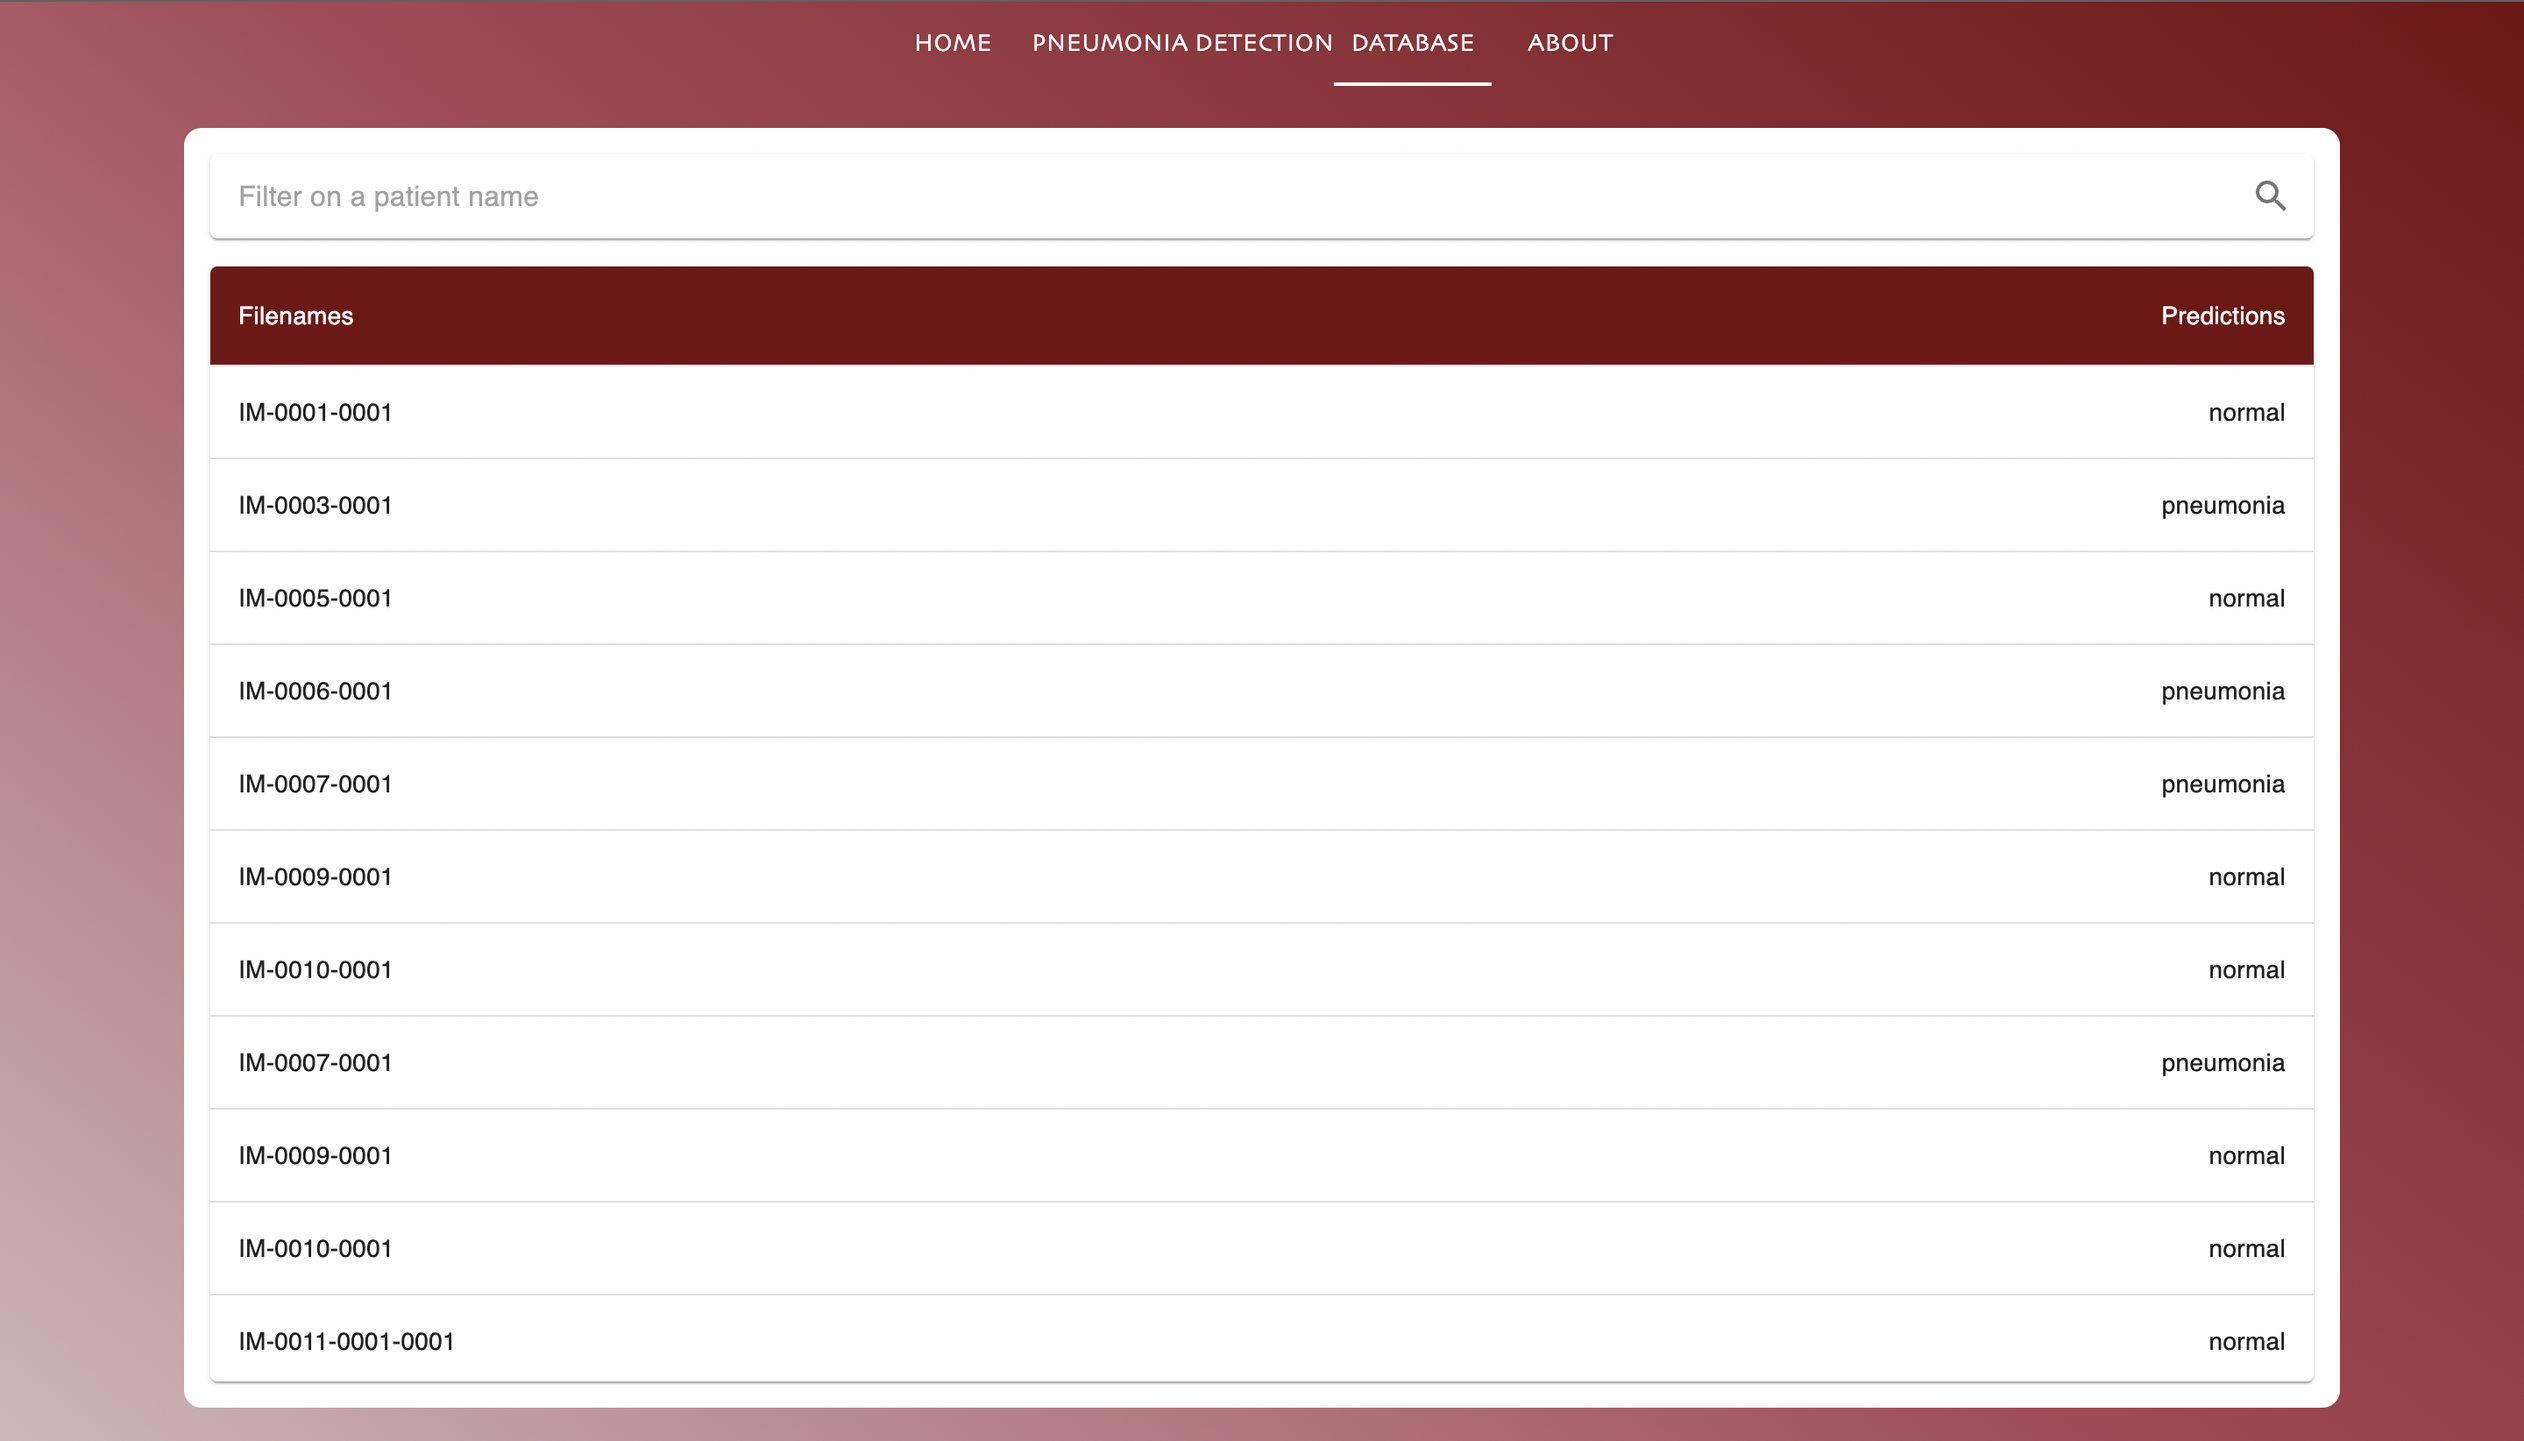
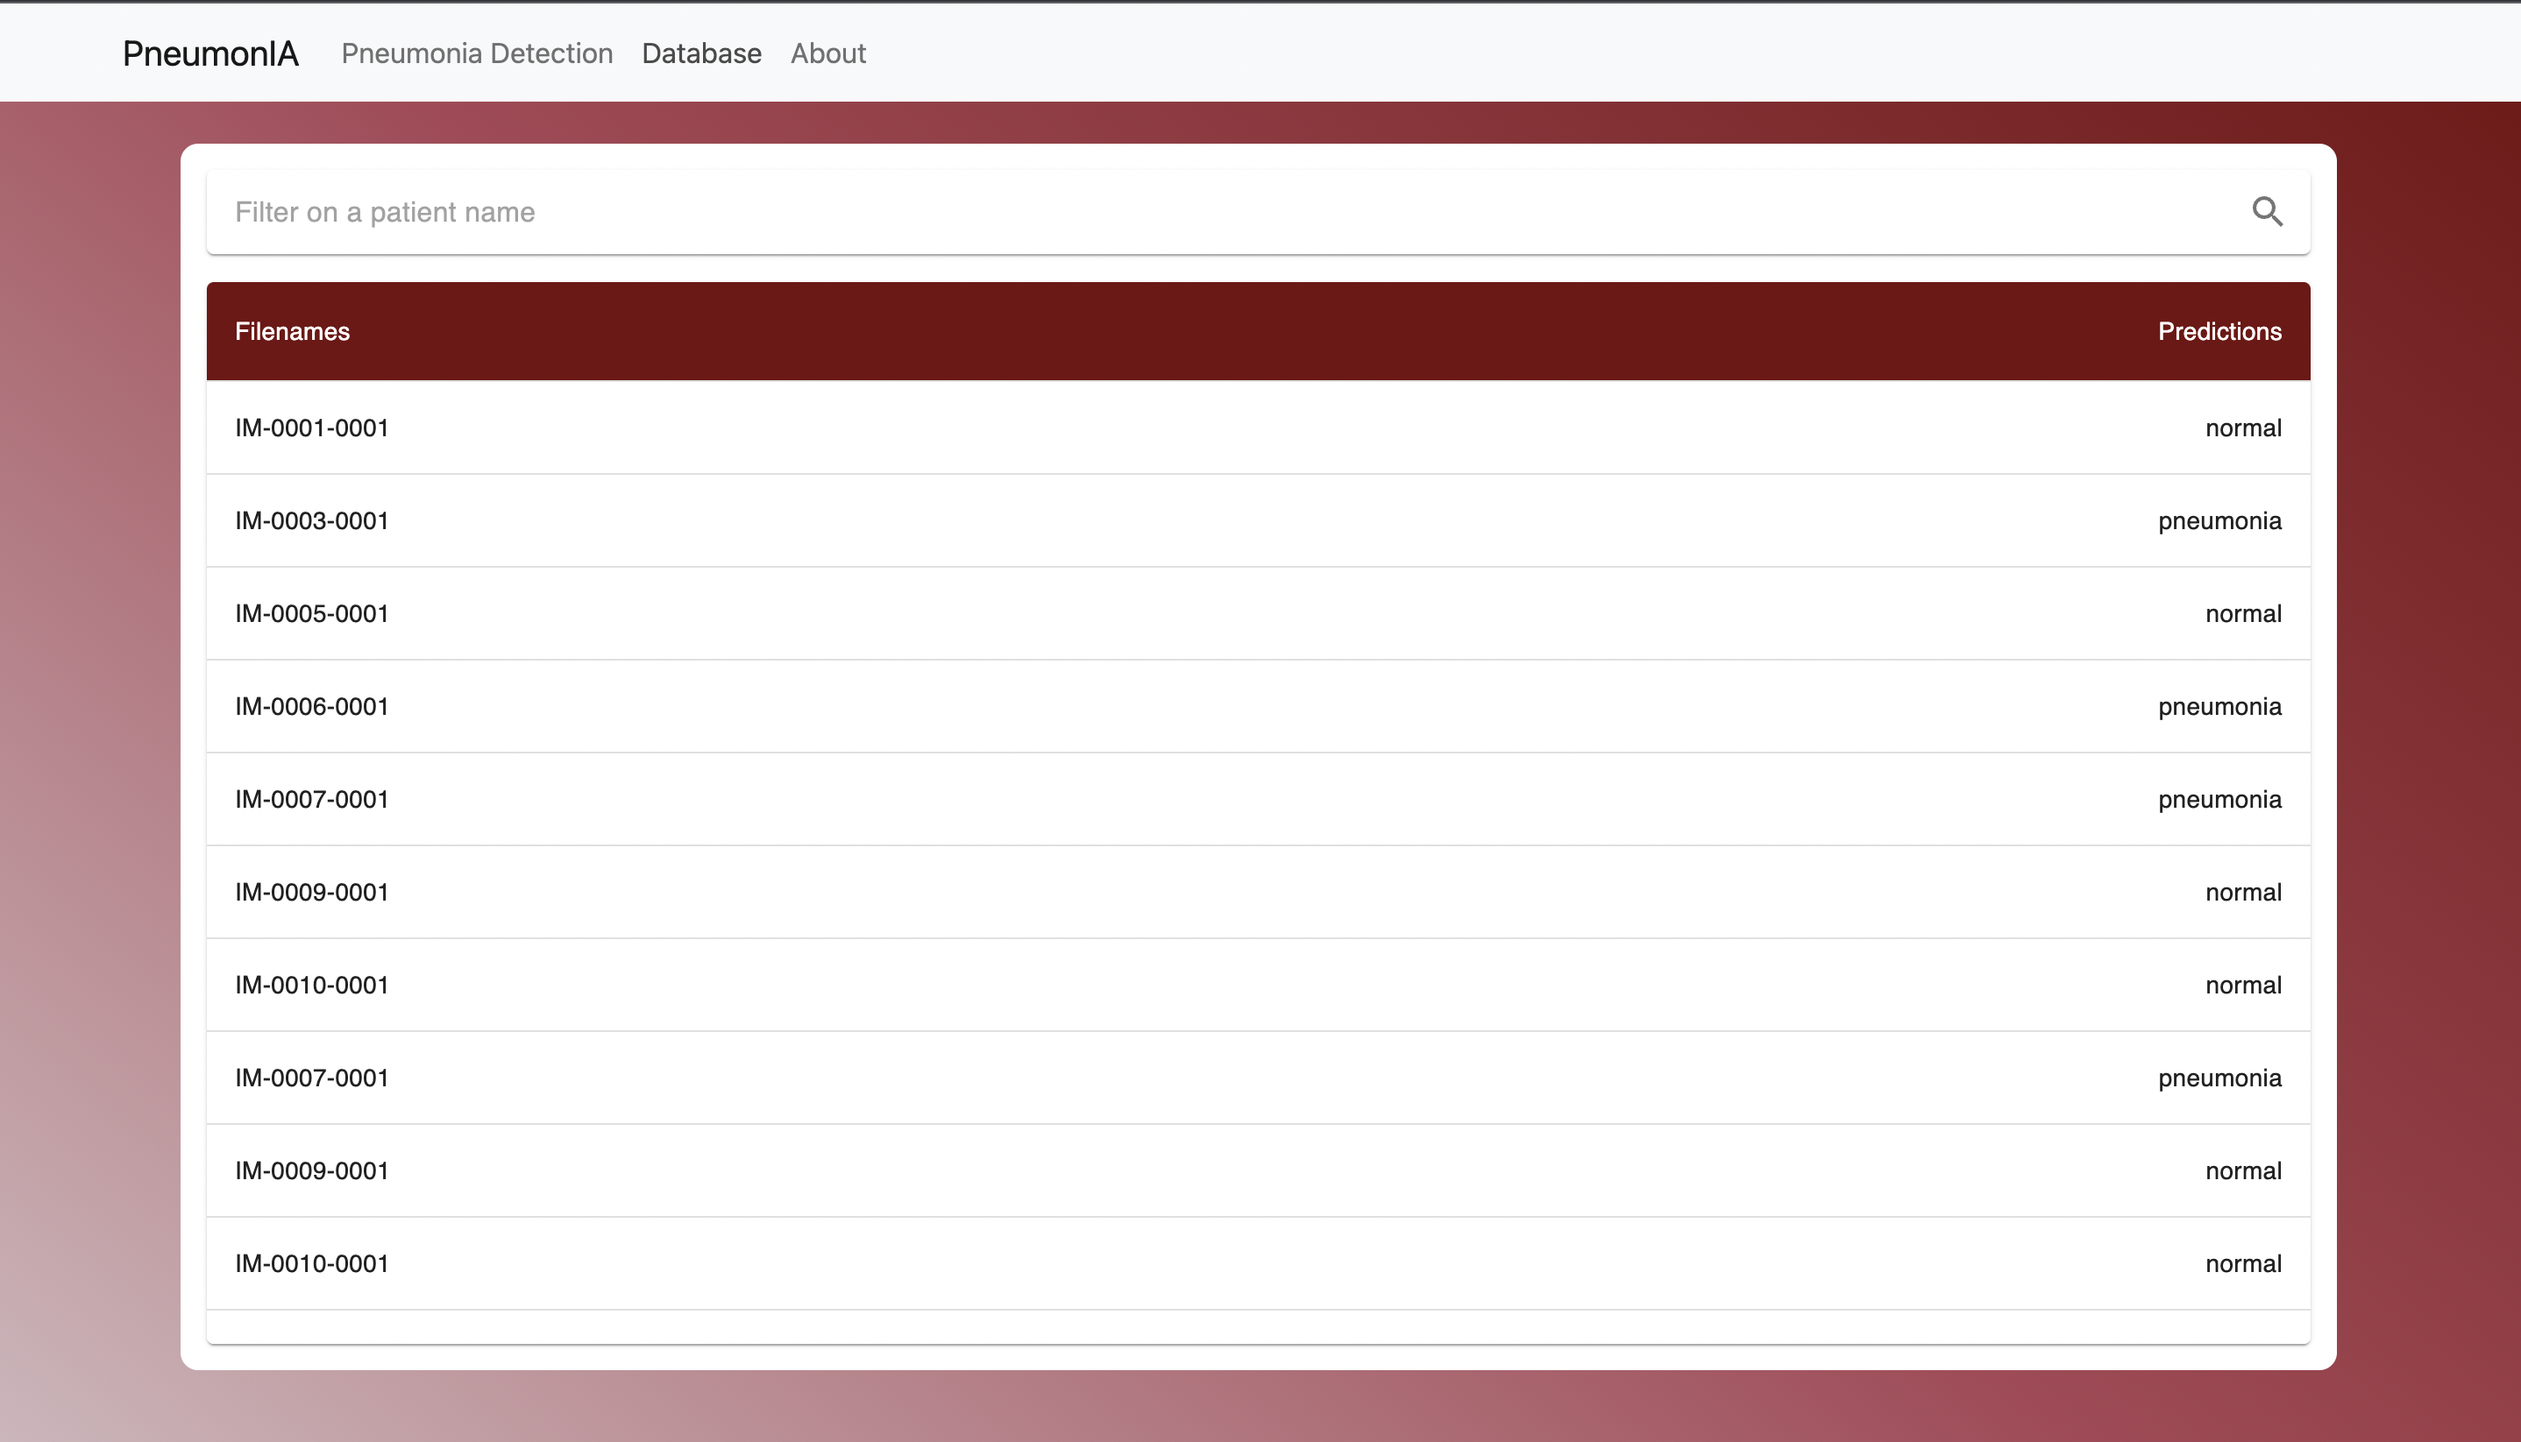
readme modification

diff --git a/front/src/components/App.js b/front/src/components/App.js
@@ -1,7 +1,6 @@
 import React from 'react';
-import * as ReactBootStrap from "react-bootstrap";
 import NavBar from './navbar';
-import { BrowserRouter as Router, Route, Link, Routes } from "react-router-dom";
+import { BrowserRouter as Router, Route, Routes } from "react-router-dom";
 import PredictionPage from './predictionPage';
 import TitleComponent from './about';
 import Data from './data';

diff --git a/front/src/index.js b/front/src/index.js
@@ -1,8 +1,6 @@
 import React from "react";
 import ReactDOM from "react-dom/client";
-import FunctionalityChoice from './components/tab';
 import {Stack } from "@mui/material";
-import NavigationBar from "./components/navbar";
 import App from "./components/App";
 import 'bootstrap/dist/css/bootstrap.min.css';
 

diff --git a/README.md b/README.md
@@ -39,11 +39,11 @@ You can see your software running at `http://localhost:3000/`.
 ![pred1](https://github.com/Bessouat40/reactjs-fastapi-pneumonia-detection/blob/main/screen/pred1.png)
 ![pred2](https://github.com/Bessouat40/reactjs-fastapi-pneumonia-detection/blob/main/screen/pred2.png)
 ![pred3](https://github.com/Bessouat40/reactjs-fastapi-pneumonia-detection/blob/main/screen/pred3.png)
-![pred4](https://github.com/Bessouat40/reactjs-fastapi-pneumonia-detection/blob/main/screen/pred4.png)
 
 ### Database page
 
 ![db](https://github.com/Bessouat40/reactjs-fastapi-pneumonia-detection/blob/main/screen/db.png)
+![db](https://github.com/Bessouat40/reactjs-fastapi-pneumonia-detection/blob/main/screen/db2.png)
 
 ### About page
 
